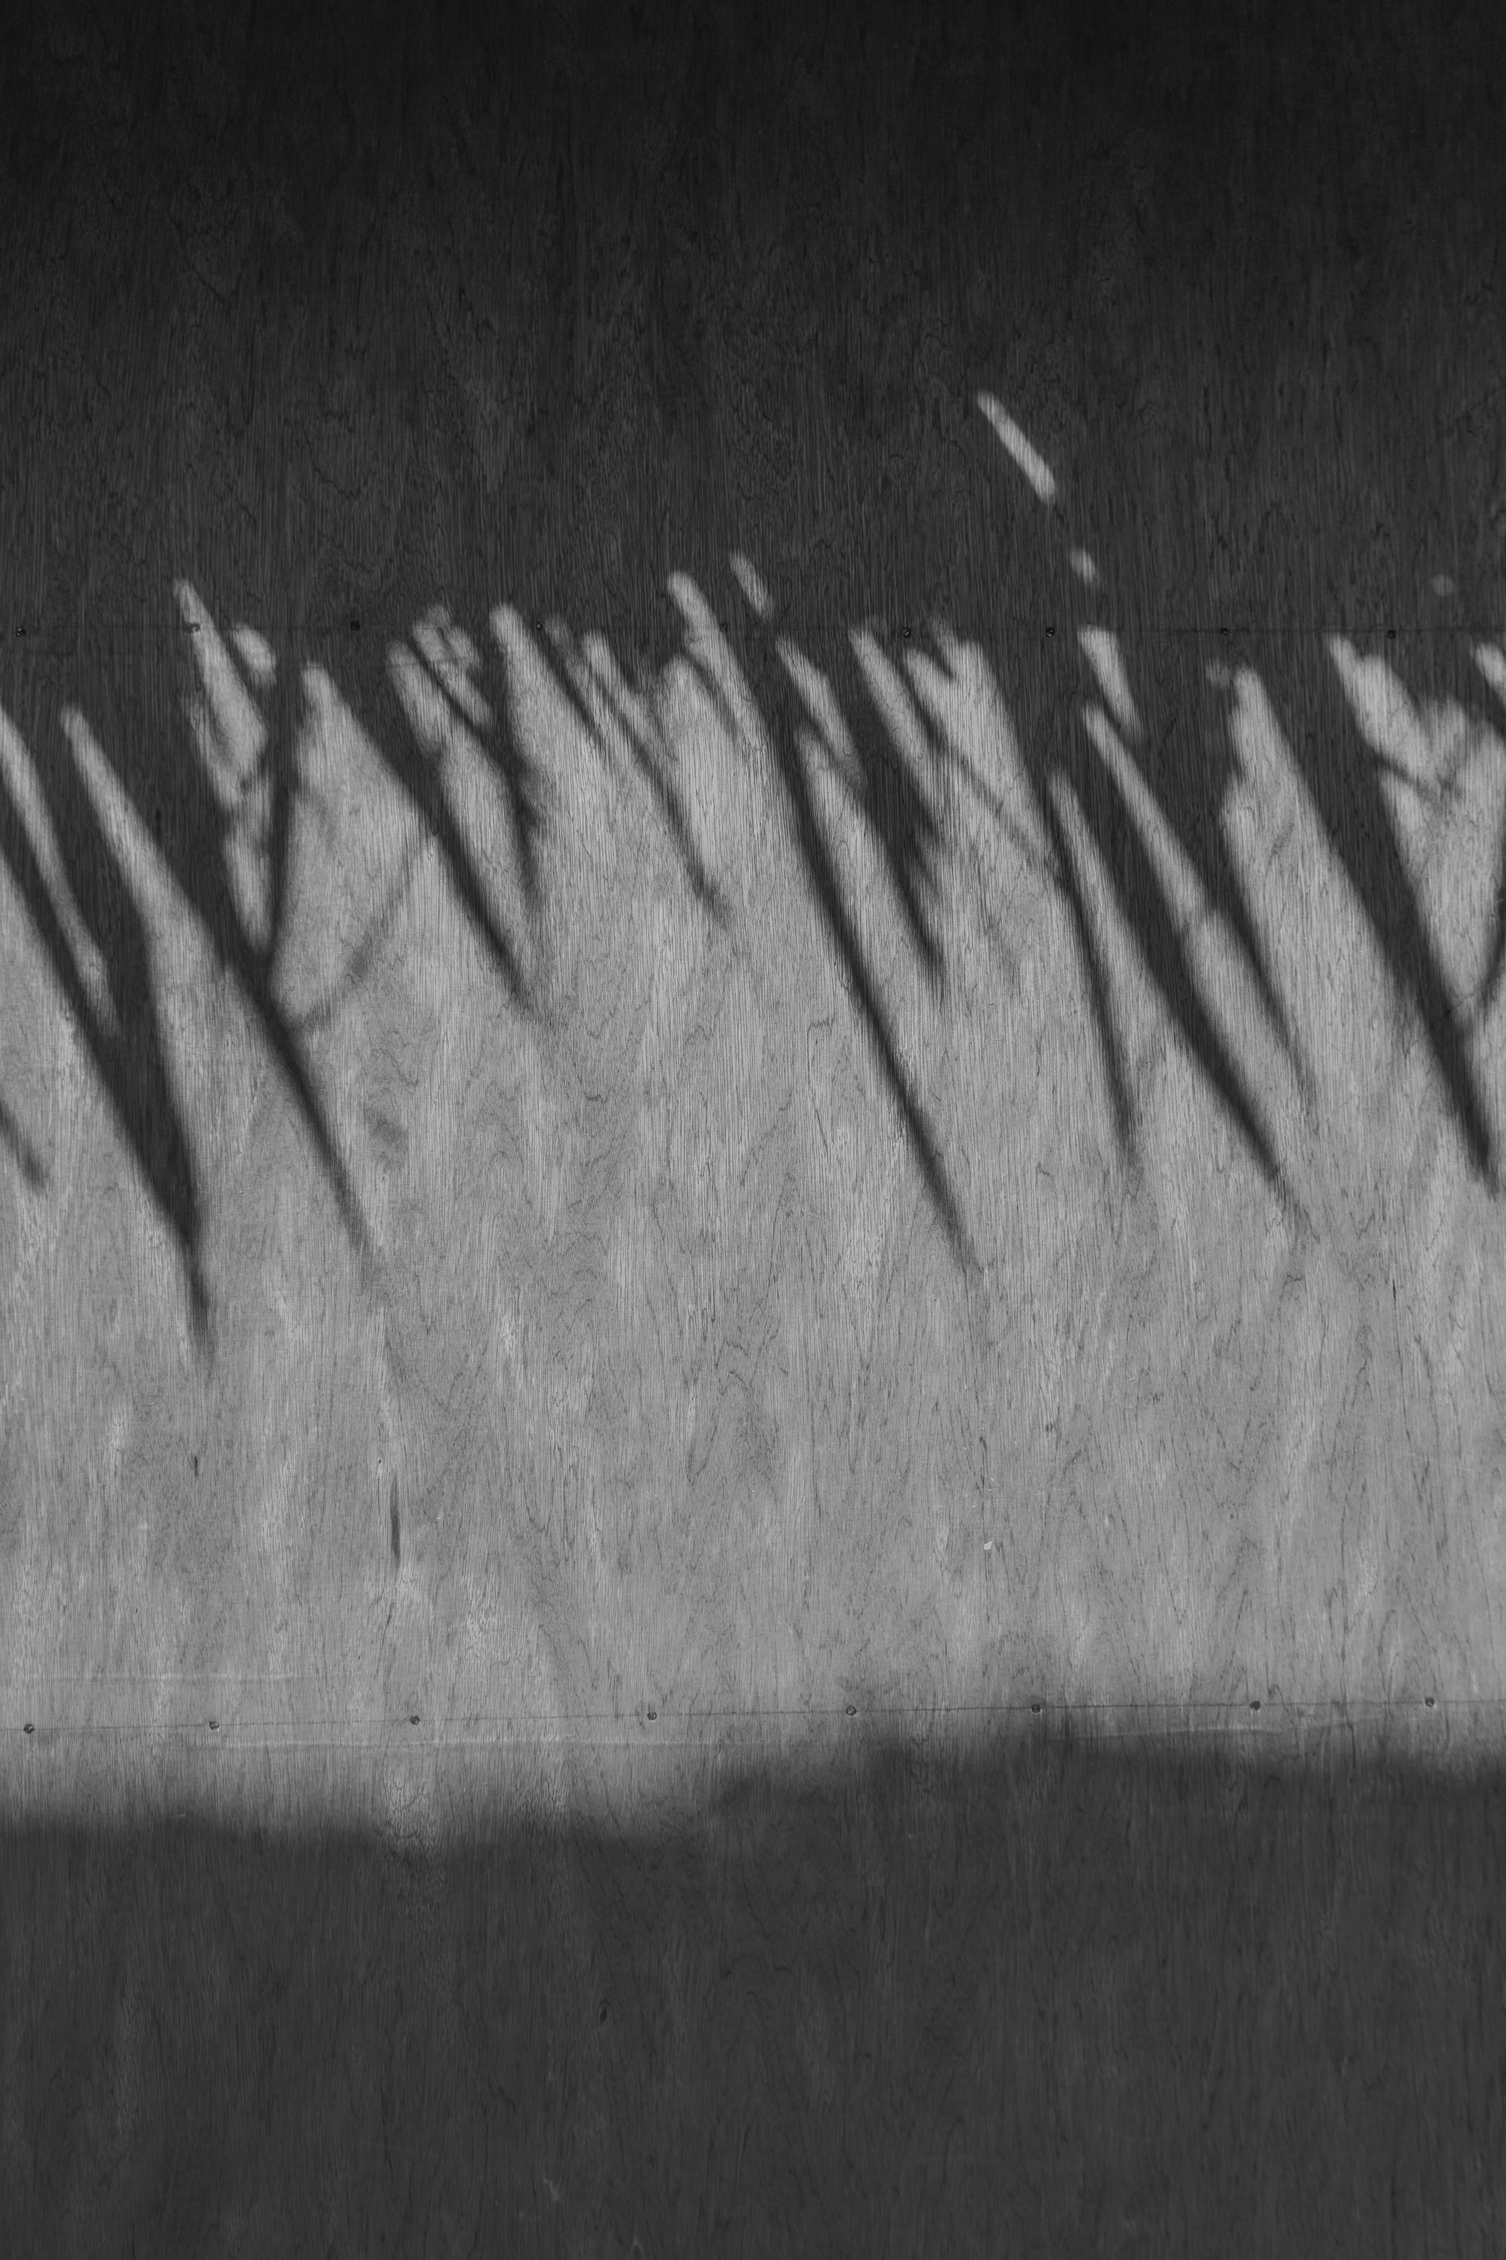
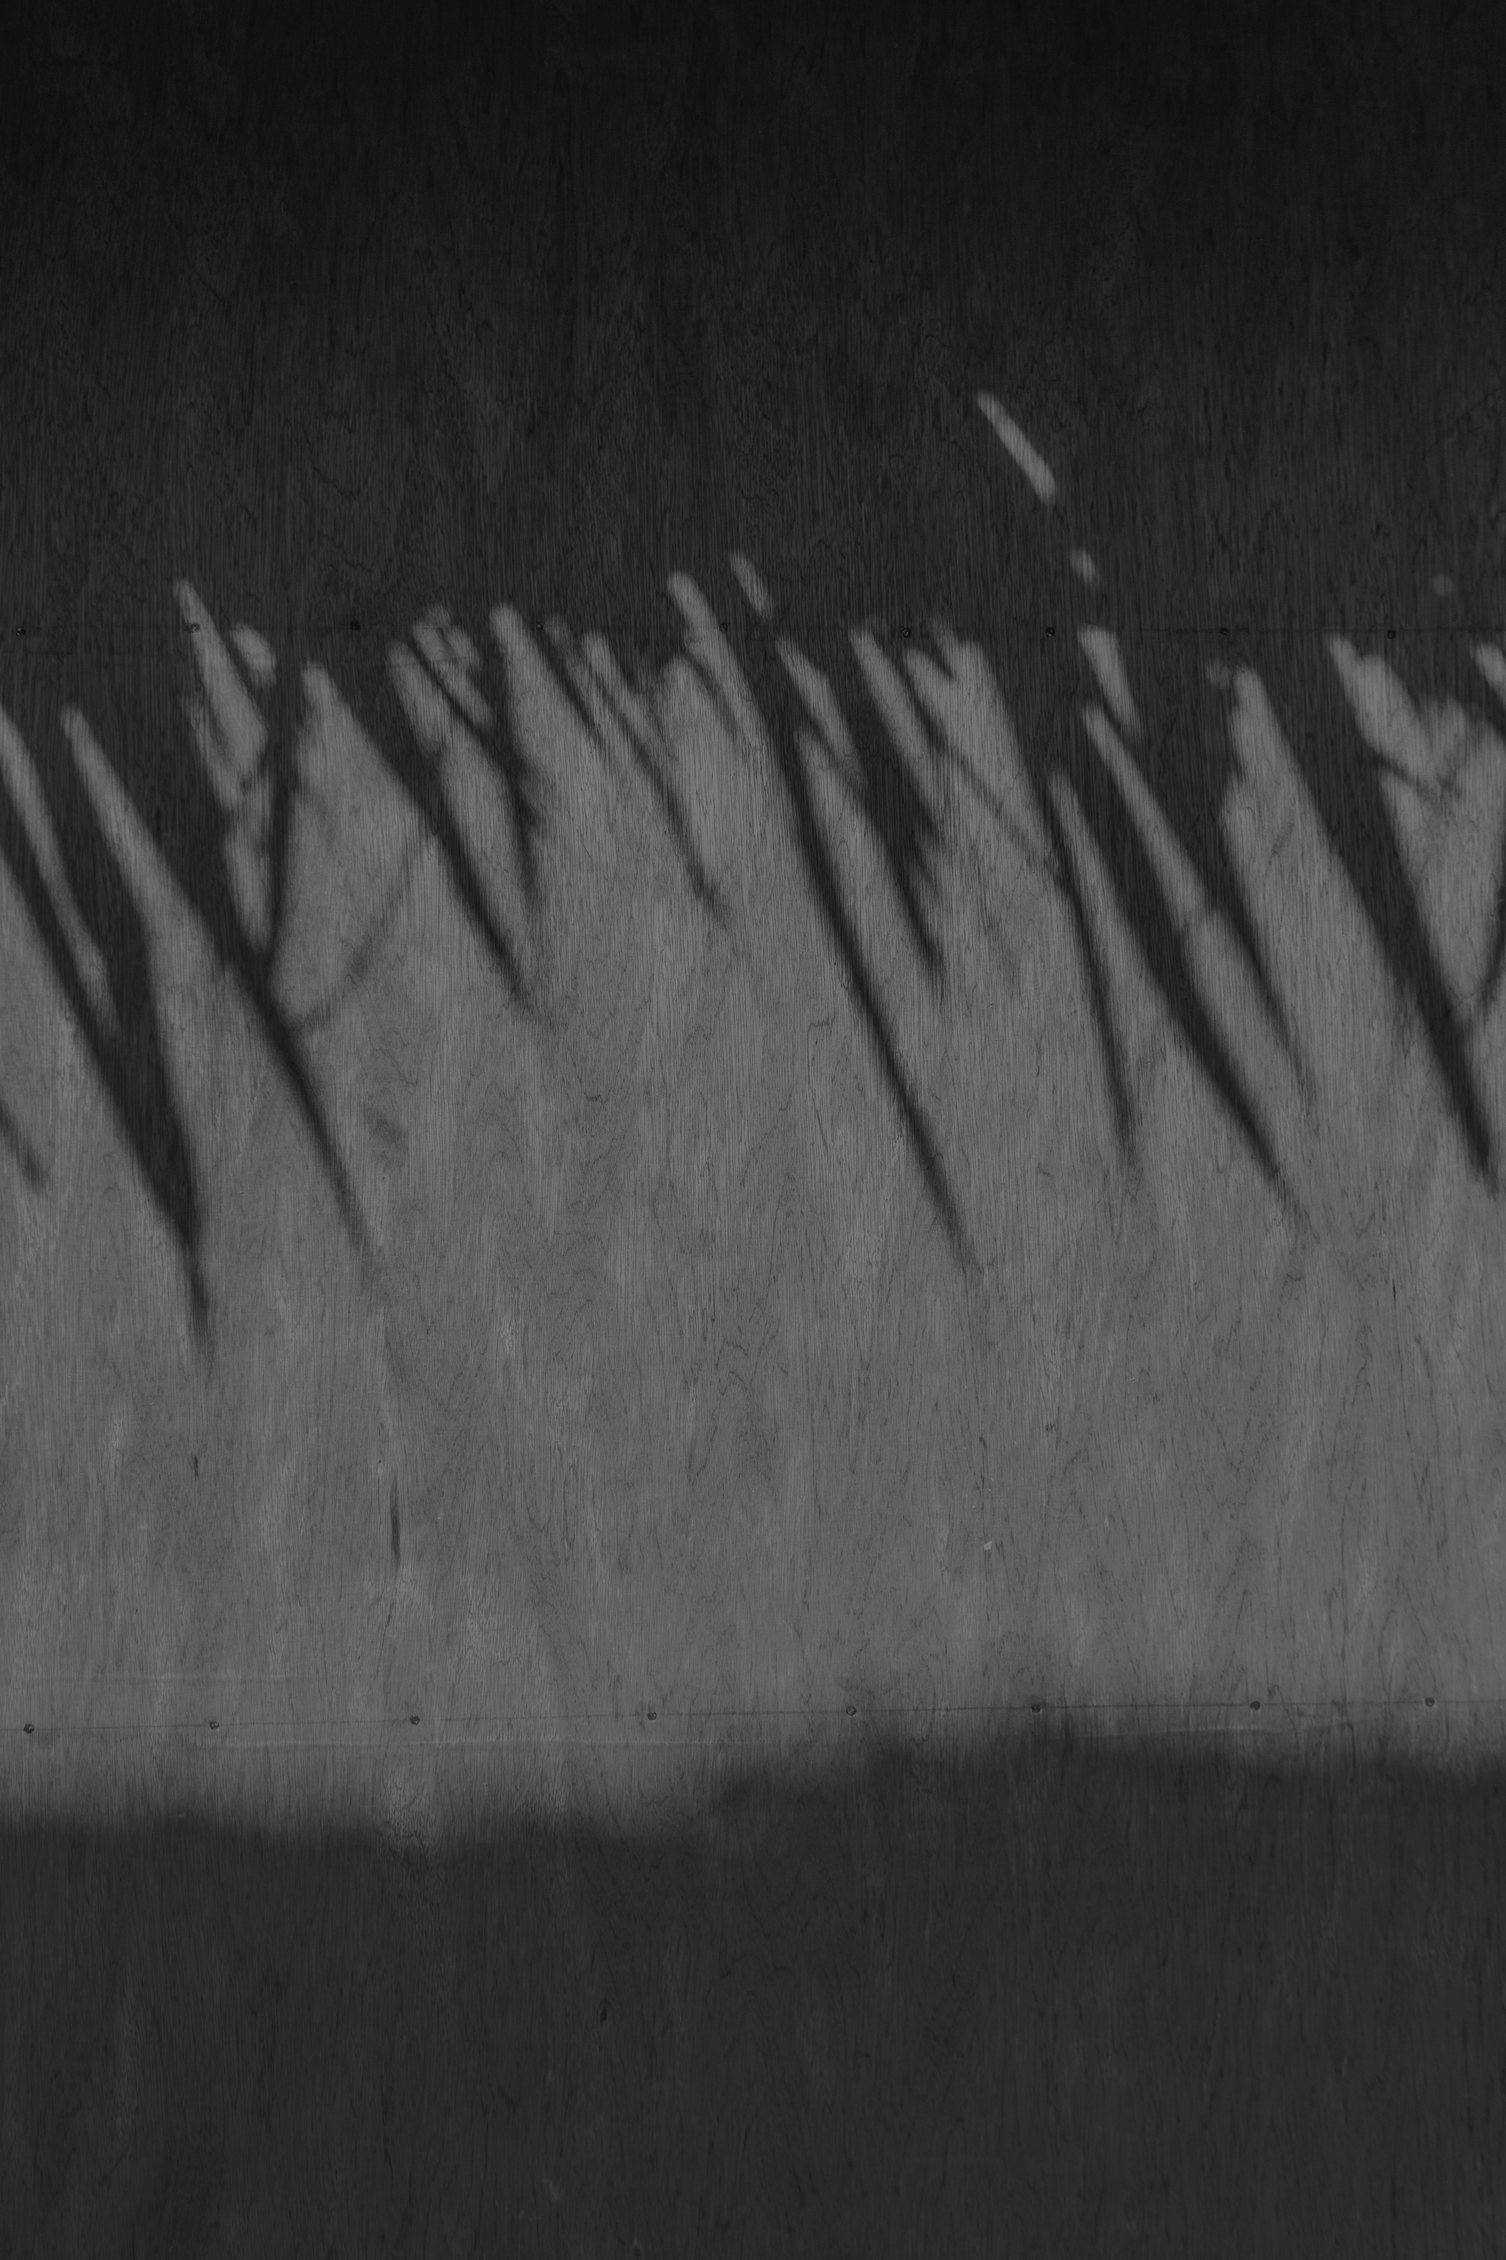
Save all design changes before repository restructuring

diff --git a/src/components/dashboard/ProfessionalBackground.tsx b/src/components/dashboard/ProfessionalBackground.tsx
@@ -11,7 +11,7 @@ export function ProfessionalBackground() {
 
   return (
     <motion.section 
-      className="bg-background py-24 sm:py-32"
+      className="py-24 sm:py-32"
       variants={sectionVariants}
       initial="hidden"
       whileInView="visible"
@@ -20,50 +20,50 @@ export function ProfessionalBackground() {
       <div className="mx-auto w-full max-w-7xl px-8">
         <div className="grid grid-cols-1 md:grid-cols-3 gap-16">
           <div className="md:col-span-1">
-            <h2 className="text-3xl font-bold uppercase tracking-widest text-text-strong">
+            <h2 className="text-3xl font-bold uppercase tracking-widest text-white">
               PROFESSIONAL BACKGROUND
             </h2>
           </div>
           <div className="md:col-span-2 space-y-12">
             <div>
-              <h3 className="text-2xl font-semibold tracking-tight text-text-strong mb-4">
+              <h3 className="text-2xl font-semibold tracking-tight text-white mb-4">
                 EXPERIENCE
               </h3>
               <ul className="space-y-4">
-                <li className="text-lg text-[#64748B]">
+                <li className="text-lg text-blue-200">
                   <strong>Travel Planner Manager</strong> @ The Wandering Lens | 2024–2026
                 </li>
-                <li className="text-lg text-[#64748B]">
+                <li className="text-lg text-blue-200">
                   <strong>Lecturer & Academic QC</strong> @ Blue Pillar Academy | 2022–2023
                 </li>
-                <li className="text-lg text-[#64748B]">
+                <li className="text-lg text-blue-200">
                   <strong>Project Management Executive</strong> @ Country Garden | 2017–2022
                 </li>
               </ul>
             </div>
 
             <div>
-              <h3 className="text-2xl font-semibold tracking-tight text-text-strong mb-4">
+              <h3 className="text-2xl font-semibold tracking-tight text-white mb-4">
                 EDUCATION
               </h3>
-              <p className="text-lg text-[#64748B]">
+              <p className="text-lg text-blue-200">
                 <strong>B.Sc Architecture</strong>, UTM | 2012–2017
               </p>
             </div>
 
             <div className="flex flex-col sm:flex-row gap-4 pt-8">
               <a href="/assets/documents/resume.pdf" target="_blank" rel="noopener noreferrer">
-                <button className="w-full sm:w-auto rounded-full bg-[#1E293B] px-8 py-3 text-base font-semibold text-white hover:bg-[#1E293B]/90 transition-colors">
+                <button className="w-full sm:w-auto rounded-full bg-white px-8 py-3 text-base font-semibold text-[#1E293B] hover:bg-slate-200 transition-colors">
                   View Resume
                 </button>
               </a>
               <a href="/assets/documents/2026 CV.pdf" target="_blank" rel="noopener noreferrer">
-                <button className="w-full sm:w-auto rounded-full border border-[#1E293B] bg-transparent px-8 py-3 text-base font-semibold text-[#1E293B] hover:bg-slate-50 transition-colors">
+                <button className="w-full sm:w-auto rounded-full border border-slate-300 bg-transparent px-8 py-3 text-base font-semibold text-white hover:bg-slate-800 transition-colors">
                   View CV
                 </button>
               </a>
               <a href="/assets/documents/portfolio.pdf" target="_blank" rel="noopener noreferrer">
-                <button className="w-full sm:w-auto rounded-full bg-[#1E293B] px-8 py-3 text-base font-semibold text-white hover:bg-[#1E293B]/90 transition-colors">
+                <button className="w-full sm:w-auto rounded-full bg-white px-8 py-3 text-base font-semibold text-[#1E293B] hover:bg-slate-200 transition-colors">
                   View Architectural Portfolio
                 </button>
               </a>

diff --git a/src/components/dashboard/Pillars.tsx b/src/components/dashboard/Pillars.tsx
@@ -77,7 +77,7 @@ export function Pillars() {
   const [expanded, setExpanded] = React.useState<false | number>(0);
 
   return (
-    <section className="bg-background py-24 sm:py-32">
+    <section className="py-24 sm:py-32">
       <div className="mx-auto w-full max-w-7xl px-8">
         <motion.div
           className="text-center mb-16"
@@ -86,7 +86,7 @@ export function Pillars() {
           viewport={{ once: true, amount: 0.5 }}
           transition={{ duration: 0.8 }}
         >
-          <h2 className="text-3xl font-bold uppercase tracking-widest text-text-strong">
+          <h2 className="text-3xl font-bold uppercase tracking-widest text-white">
             Core Competencies
           </h2>
         </motion.div>
@@ -115,7 +115,7 @@ const AccordionItem = ({ i, expanded, setExpanded, data }: any) => {
       className="border-b border-slate-200"
       initial={false}
       animate={{
-        backgroundColor: isOpen ? "rgba(241, 245, 249, 0.5)" : "rgba(255, 255, 255, 0)",
+        backgroundColor: isOpen ? "rgba(255, 255, 255, 0.2)" : "rgba(255, 255, 255, 0)",
       }}
     >
       <motion.header
@@ -123,8 +123,8 @@ const AccordionItem = ({ i, expanded, setExpanded, data }: any) => {
         initial={false}
         onClick={() => setExpanded(isOpen ? false : i)}
       >
-        <h3 className="text-2xl font-semibold text-text-strong">{data.title}</h3>
-        <div className="text-text-strong">
+        <h3 className="text-2xl font-semibold text-white">{data.title}</h3>
+        <div className="text-white">
           {isOpen ? <Minus size={24} /> : <Plus size={24} />}
         </div>
       </motion.header>
@@ -145,8 +145,8 @@ const AccordionItem = ({ i, expanded, setExpanded, data }: any) => {
               <div className="grid grid-cols-1 md:grid-cols-2 gap-8">
                 {data.content.map((entry: any, entryIndex: number) => (
                   <div key={entryIndex}>
-                    <h4 className="text-lg font-semibold text-text-strong mb-2">{entry.title}</h4>
-                    <p className="text-base text-[#64748B]">{entry.text}</p>
+                    <h4 className="text-lg font-semibold text-white mb-2">{entry.title}</h4>
+                    <p className="text-base text-blue-200">{entry.text}</p>
                   </div>
                 ))}
               </div>

diff --git a/src/components/dashboard/Hero.tsx b/src/components/dashboard/Hero.tsx
@@ -7,7 +7,7 @@ import { MapPin, Briefcase } from "lucide-react";
 export function Hero() {
   return (
     <motion.section
-      className="bg-background min-h-screen flex items-center overflow-hidden"
+      className="min-h-screen flex items-center overflow-hidden"
       initial={{ opacity: 0 }}
       animate={{ opacity: 1 }}
       transition={{ duration: 0.5 }}
@@ -30,10 +30,10 @@ export function Hero() {
             animate={{ x: 0, opacity: 1 }}
             transition={{ duration: 1.2, delay: 0.2, ease: [0.6, 0.01, -0.05, 0.9] }}
           >
-            <p className="text-xl font-medium text-[#64748B] mb-6">
+            <p className="text-xl font-medium text-slate-600 mb-6">
               Operations Specialist | Client Success Concierge | Project Coordinator
             </p>
-            <div className="flex justify-end items-center gap-6 mb-6 text-base text-[#64748B]">
+            <div className="flex justify-end items-center gap-6 mb-6 text-base text-slate-600">
               <div className="flex items-center gap-2">
                 <MapPin size={16} />
                 <span>Based in Malaysia</span>
@@ -43,7 +43,7 @@ export function Hero() {
                 <span>Remote full-time/freelance</span>
               </div>
             </div>
-            <p className="text-lg text-[#64748B] leading-relaxed">
+            <p className="text-lg text-slate-600 leading-relaxed">
               With 8 years of experience in project-driven environments, I provide the operational backbone that allows businesses to scale and leaders to focus. I turn complex coordination into a seamless, reliable experience, managing the structural integrity of your workflow with empathy and precision.
             </p>
           </motion.div>

diff --git a/src/components/dashboard/Footer.tsx b/src/components/dashboard/Footer.tsx
@@ -6,7 +6,7 @@ import { motion } from "framer-motion";
 export function Footer() {
   return (
     <motion.footer 
-      className="bg-background py-12"
+      className="py-12"
       initial={{ opacity: 0 }}
       whileInView={{ opacity: 1 }}
       viewport={{ once: true, amount: 0.2 }}
@@ -15,18 +15,18 @@ export function Footer() {
       <div className="mx-auto w-full max-w-7xl px-8">
         <div className="flex flex-col md:flex-row justify-between items-center gap-8">
           <div className="text-center md:text-left">
-            <p className="text-base text-[#64748B]">
+            <p className="text-base text-slate-300">
               Crafted with intention by Ng An Qi
             </p>
-            <p className="text-sm text-[#64748B]">
+            <p className="text-sm text-slate-300">
               © 2026 All Rights Reserved.
             </p>
           </div>
           <div className="flex items-center gap-8">
-            <a href="mailto:angel_anqi_2009@hotmail.com" className="text-base text-[#64748B] hover:text-accent transition-colors">
+            <a href="mailto:angel_anqi_2009@hotmail.com" className="text-base text-blue-200 hover:text-blue-500 transition-colors">
               angel_anqi_2009@hotmail.com
             </a>
-            <a href="https://www.linkedin.com/in/an-qi-ng-554654b6/" target="_blank" rel="noopener noreferrer" className="text-base text-[#64748B] hover:text-accent transition-colors">
+            <a href="https://www.linkedin.com/in/an-qi-ng-554654b6/" target="_blank" rel="noopener noreferrer" className="text-base text-blue-200 hover:text-blue-500 transition-colors">
               LinkedIn
             </a>
           </div>

diff --git a/src/components/dashboard/Toolkit.tsx b/src/components/dashboard/Toolkit.tsx
@@ -40,7 +40,7 @@ export function Toolkit() {
   };
 
   return (
-    <section className="bg-background py-24 sm:py-32">
+    <section className="py-24 sm:py-32">
       <div className="mx-auto w-full max-w-7xl px-8">
         <motion.div
           className="text-center mb-16"
@@ -49,10 +49,10 @@ export function Toolkit() {
           viewport={{ once: true, amount: 0.5 }}
           transition={{ duration: 0.8 }}
         >
-          <h2 className="text-3xl font-bold uppercase tracking-widest text-text-strong">
+          <h2 className="text-3xl font-bold uppercase tracking-widest text-white">
             My Toolkit
           </h2>
-          <p className="mt-4 text-lg text-[#64748B] max-w-3xl mx-auto">
+          <p className="mt-4 text-lg text-slate-300 max-w-3xl mx-auto">
             A selection of the tools and technologies I use to bring projects to life.
           </p>
         </motion.div>
@@ -70,7 +70,7 @@ export function Toolkit() {
               className="text-center"
               variants={itemVariants}
             >
-              <p className="text-lg font-semibold text-text-strong">{prof}</p>
+              <p className="text-lg font-semibold text-blue-200">{prof}</p>
             </motion.div>
           ))}
         </motion.div>

diff --git a/src/components/dashboard/Testimonials.tsx b/src/components/dashboard/Testimonials.tsx
@@ -29,7 +29,7 @@ export function Testimonials() {
   const testimonialsCol4 = testimonials.slice(9, 12);
 
   return (
-    <section className="bg-background py-24 sm:py-32">
+    <section className="py-24 sm:py-32">
       <div className="mx-auto w-full max-w-7xl px-8">
         <motion.div
           className="mb-16 text-center"
@@ -38,10 +38,10 @@ export function Testimonials() {
           viewport={{ once: true, amount: 0.5 }}
           transition={{ duration: 0.8 }}
         >
-          <h2 className="text-3xl font-bold uppercase tracking-widest text-text-strong">
+          <h2 className="text-3xl font-bold uppercase tracking-widest text-white">
             Wall of Love
           </h2>
-          <p className="mt-4 text-lg text-[#64748B] max-w-3xl mx-auto">
+          <p className="mt-4 text-lg text-slate-300 max-w-3xl mx-auto">
             A collection of experiences and kind words from clients and partners I've had the pleasure to work with.
           </p>
         </motion.div>

diff --git a/src/app/layout.tsx b/src/app/layout.tsx
@@ -22,13 +22,13 @@ export default function RootLayout({
       lang="en"
       className={`${inter.variable} h-full antialiased`}
     >
-      <body className="min-h-full flex flex-col bg-background text-text" style={{
+      <body className="min-h-full flex flex-col text-text" style={{
         backgroundImage: "url('/assets/pexels-ian-panelo-20737557.jpg')",
         backgroundSize: "cover",
         backgroundPosition: "center",
         backgroundAttachment: "fixed",
       }}>
-        <div className="absolute inset-0 bg-black/50 z-0" />
+        <div className="absolute inset-0 bg-white/60 z-0" />
         <div className="relative z-10 flex-1">
           {children}
         </div>

diff --git a/src/app/globals.css b/src/app/globals.css
@@ -2,14 +2,12 @@
 
 :root {
   /* Engineering Executive (light-only) */
-  --background: #f1f5f9; /* Cool Slate */
   --card: #ffffff;
   --text: #1e293b; /* Deep Navy for all text */
   --accent: #3b82f6; /* Electric Blue */
 }
 
 @theme inline {
-  --color-background: var(--background);
   --color-card: var(--card);
 
   --color-text: var(--text);
@@ -20,7 +18,6 @@
 }
 
 body {
-  background: #f1f5f9;
   color: var(--text);
   font-family: var(--font-inter), ui-sans-serif, system-ui, sans-serif;
 }

diff --git a/src/app/page.tsx b/src/app/page.tsx
@@ -7,7 +7,7 @@ import { Footer } from "@/components/dashboard/Footer";
 
 export default function Home() {
   return (
-    <div className="relative min-h-full bg-background">
+    <div className="relative min-h-full">
       <div
         aria-hidden="true"
         className="pointer-events-none absolute right-0 top-0 h-[520px] w-[520px] bg-[radial-gradient(closest-side,theme(colors.blue.50),transparent)] opacity-80"
